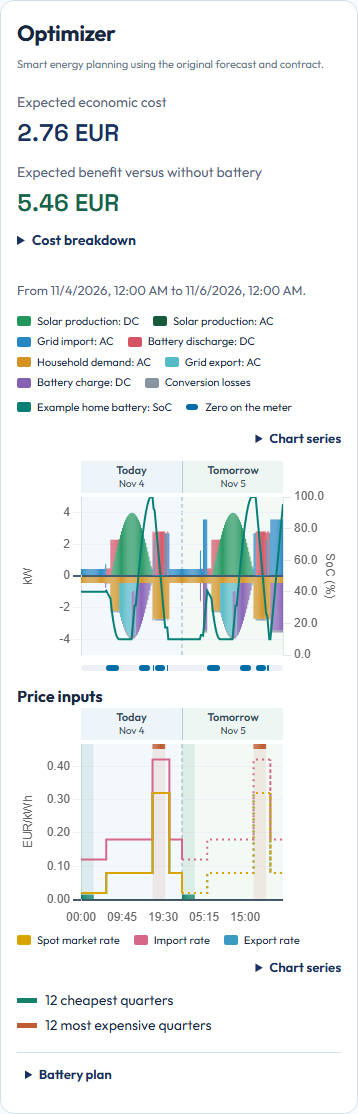
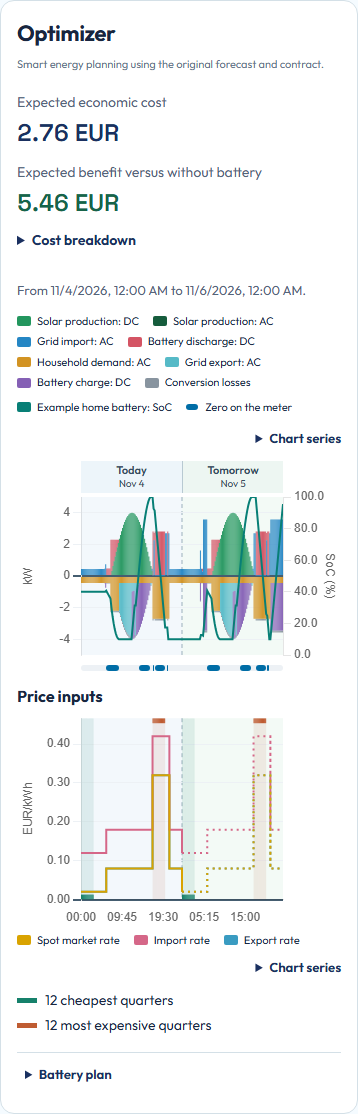
Refine linked Planning chart tooltips and day headings

diff --git a/src/open_energy_planner/web/public/overview.js b/src/open_energy_planner/web/public/overview.js
@@ -215,7 +215,7 @@ function renderTooltip({chart: instance, tooltip}, node, balance = false, balanc
     const groupedBalance = balance && !batteryPlan;
     node.classList.toggle("chart-tooltip-balance", groupedBalance);
     const sections = tooltipSections(items, totalItems, groupedBalance, tooltip.balanceItems);
-    if (isLinkedChart(instance.canvas.id) && linkedInterval) node.append(linkedCostText(linkedInterval));
+    if (instance.canvas.id === "price-chart" && linkedInterval) node.append(linkedCostTable(linkedInterval));
     node.append(sections);
     const notes = [...(interval ? balanceNotes(interval.raw, instance.canvas.id, when) : tooltip.afterBody)];
     if (totalItems.length) notes.push("Totals include all flows, including hidden series. Supply is positive. Use is negative.");
@@ -226,25 +226,40 @@ function renderTooltip({chart: instance, tooltip}, node, balance = false, balanc
     positionChartTooltip(node, instance.canvas, tooltip.caretX, tooltip.caretY);
 }
 /** Show plan cash flows before bonus and battery valuation. Missing evidence remains unknown. */
-function linkedCostText({gridImport, gridExport, buyRate, sellRate, currency}) {
-    const exchange = (label, energy, rate, amountLabel) => {
-        const quantity = knownQuantity(energy, number, "kWh");
+function linkedCostTable({gridImport, gridExport, buyRate, sellRate, currency}) {
+    const table = document.createElement("table");
+    table.className = "chart-linked-cost";
+    for (const [label, energy, rate, amountLabel] of [
+        ["Grid import", gridImport, buyRate, "Cost"],
+        ["Grid export", gridExport, sellRate, "Revenue before bonus"],
+    ]) {
+        const group = table.createTBody();
+        const heading = document.createElement("th");
+        heading.scope = "rowgroup";
+        heading.colSpan = 3;
+        heading.textContent = label;
+        group.insertRow().append(heading);
         const amount = Number.isFinite(energy) && Number.isFinite(rate) ? energy * rate : null;
-        const tariff = knownQuantity(rate, money, `${currency}/kWh`, "an unavailable rate");
-        return `${label}: ${quantity}. ${amountLabel}: ${knownQuantity(amount, money, currency)} at ${tariff}.`;
-    };
-    const text = document.createElement("p");
-    text.className = "chart-linked-cost";
-    text.textContent = [
-        exchange("Grid import", gridImport, buyRate, "Cost"),
-        exchange("Grid export", gridExport, sellRate, "Revenue before bonus")
-    ].join(" ");
-    return text;
+        appendCostRow(group, "Energy", energy, number, "kWh");
+        appendCostRow(group, "Rate", rate, money, `${currency}/kWh`);
+        appendCostRow(group, amountLabel, amount, money, currency);
+    }
+    return table;
 }
 
-/** Format finite quantities while preserving the distinction between missing and zero. */
-function knownQuantity(value, format, unit, unavailable = "Unavailable") {
-    return Number.isFinite(value) ? `${format(value)} ${unit}` : unavailable;
+/** Use the same numeric and unit columns as the energy table. */
+function appendCostRow(group, name, amount, format, symbol) {
+    const row = group.insertRow();
+    const label = document.createElement("th");
+    label.scope = "row";
+    label.textContent = name;
+    row.append(label);
+    const value = row.insertCell(), unit = row.insertCell();
+    value.className = "chart-tooltip-value";
+    unit.className = "chart-tooltip-unit";
+    const known = Number.isFinite(amount);
+    value.textContent = known ? format(amount) : "Unavailable";
+    unit.textContent = known ? symbol : "";
 }
 
 /** Redraw one timestamp across both plots without changing their scales or datasets. */
@@ -267,37 +282,46 @@ function clearLinkedInspection() {
     $("linked-chart-reading").textContent = "";
 }
 
-/** Use the plan's real interval boundaries, including partial opening quarters. */
-function linkedChartInteraction(canvas, tooltip, hideTooltip, signal) {
-    const intervalAt = (chart, pixel) => {
-        const time = chart.scales.x.getValueForPixel(pixel);
-        return inspectSteps.find(interval => interval.start <= time && time < interval.end) ?? null;
-    };
-    const midpoint = interval => (interval.start + interval.end) / 2;
-    const inspectInterval = (chart, interval, y) => {
-        selectLinkedInterval(interval);
-        hideTooltip();
-        if (!interval) return;
-        const peerTooltip = $(`${LINKED_CHART_IDS.find(id => id !== canvas.id)}-tooltip`);
-        if (peerTooltip && !peerTooltip.classList.contains("chart-tooltip-day")) peerTooltip.hidden = true;
+/** Render the selected quarter for the chart that received the input. */
+function renderLinkedTooltip(chart, tooltip, interval, y) {
+    const time = (interval.start + interval.end) / 2;
+    const x = chart.scales.x.getPixelForValue(time);
+    const caption = `From ${when(interval.start)} to ${when(interval.end)}`;
+    if (chart.canvas.id === "plan-chart") {
+        renderTooltip({chart, tooltip: {opacity: 1, dataPoints: [], title: [caption], afterBody: [], caretX: x, caretY: y}}, tooltip, true, time);
+    } else {
         const title = document.createElement("p");
         title.className = "chart-tooltip-title";
-        title.textContent = `From ${when(interval.start)} to ${when(interval.end)}`;
-        const cost = linkedCostText(interval);
-        const rankings = planRankNotes(midpoint(interval));
-        tooltip.classList.remove("chart-tooltip-balance", "chart-tooltip-day");
-        tooltip.classList.add("chart-tooltip-linked");
-        tooltip.style.maxHeight = "";
-        tooltip.replaceChildren(title, cost);
-        for (const ranking of rankings) {
+        title.textContent = caption;
+        tooltip.replaceChildren(title, linkedCostTable(interval));
+        for (const ranking of planRankNotes(time)) {
             const note = document.createElement("p");
             note.className = "chart-tooltip-explanation";
             note.textContent = ranking;
             tooltip.append(note);
         }
         tooltip.hidden = false;
-        positionChartTooltip(tooltip, canvas, chart.scales.x.getPixelForValue(midpoint(interval)), y);
-        $("linked-chart-reading").textContent = [`${title.textContent}.`, cost.textContent, ...rankings].join(" ");
+        positionChartTooltip(tooltip, chart.canvas, x, y);
+    }
+    tooltip.classList.add("chart-tooltip-linked");
+}
+
+/** Use the plan's real interval boundaries, including partial opening quarters. */
+function linkedChartInteraction(canvas, tooltip, hideTooltip, signal) {
+    const intervalAt = (chart, pixel) => {
+        const time = chart.scales.x.getValueForPixel(pixel);
+        return inspectSteps.find(interval => interval.start <= time && time < interval.end) ?? null;
+    };
+    const inspectInterval = (chart, interval, y) => {
+        selectLinkedInterval(interval);
+        hideTooltip();
+        if (!interval) return;
+        const peerTooltip = $(`${LINKED_CHART_IDS.find(id => id !== canvas.id)}-tooltip`);
+        if (peerTooltip && !peerTooltip.classList.contains("chart-tooltip-day")) peerTooltip.hidden = true;
+        tooltip.classList.remove("chart-tooltip-balance", "chart-tooltip-day");
+        tooltip.style.maxHeight = "";
+        renderLinkedTooltip(chart, tooltip, interval, y);
+        $("linked-chart-reading").textContent = tooltip.innerText.replace(/\s+/g, " ").trim();
         $("inspect-time").value = inspectSteps.indexOf(interval);
         inspect();
     };
@@ -849,7 +873,7 @@ function chart(id, series, {utcDays = false, calendarDates = false, unit = "", m
                         ? null : instance.scales.x.getValueForPixel(event.x);
                 }
             },
-            plugins: {calendarDays: {utc: utcDays, onHeading: planningLegend ? (instance, heading, day) => { hideTooltip(); planningDayHeading(instance, series, tooltip, daySummary, heading, day); } : null}, valueAxisHeadroom: {group: null}, legend: {display: false}, tooltip: {enabled: false, external: (context) => {
+            plugins: {calendarDays: {utc: utcDays, showHeadings: showPlanningDayHeadings(id), onHeading: planningLegend ? (instance, heading, day) => { hideTooltip(); planningDayHeading(instance, series, tooltip, daySummary, heading, day); } : null}, valueAxisHeadroom: {group: null}, legend: {display: false}, tooltip: {enabled: false, external: (context) => {
                 if (!context.tooltip.opacity && tooltip.classList.contains("chart-tooltip-linked")) return;
                 hideTooltip();
                 const time = balanceTime; balanceTime = null;
@@ -877,6 +901,11 @@ function chart(id, series, {utcDays = false, calendarDates = false, unit = "", m
     renderLegend(result);
     if (!deferRange) applyRange();
     if (id === "price-chart") loadDailyPrices(result);
+}
+
+/** Keep day labels in the stand-alone price preview and above the Optimizer. */
+function showPlanningDayHeadings(id) {
+    return id !== "price-chart" || !priceInputPlanId;
 }
 /**
  * Set shared axes without changing frozen data: the latest plan starts at the

diff --git a/src/open_energy_planner/web/public/chart_days.js b/src/open_energy_planner/web/public/chart_days.js
@@ -47,19 +47,21 @@ export const calendarDays = {
     id: "calendarDays",
     descriptors: {_scriptable: false},
     /** Own the heading container before the canvas and snapshot the original layout padding. */
-    beforeInit(chart) {
+    beforeInit(chart, _arguments, options) {
         const headings = document.createElement("div");
         headings.className = "chart-day-headings";
         headings.setAttribute("role", "list");
         headings.setAttribute("aria-label", "Chart calendar days");
+        headings.hidden = options.showHeadings === false;
         chart.canvas.before(headings);
         const padding = chart.options.layout.padding;
         bands.set(chart, {headings, padding: typeof padding === "number" ? {top: padding, right: padding, bottom: padding, left: padding} : {...padding}});
     },
     /** Replace padding from the snapshot on each layout pass, reserving headings only for real timestamps. */
     beforeLayout(chart) {
-        const {padding} = bands.get(chart);
-        chart.options.layout.padding = {...padding, top: (padding.top || 0) + (hasTimestamps(chart) ? HEADER_HEIGHT : 0)};
+        const {headings, padding} = bands.get(chart);
+        const headerHeight = !headings.hidden && hasTimestamps(chart) ? HEADER_HEIGHT : 0;
+        chart.options.layout.padding = {...padding, top: (padding.top || 0) + headerHeight};
     },
     /** Rebuild headings and paint day bands and boundaries using UTC dates when options.utc is true, otherwise installation dates. */
     beforeDraw(chart, _arguments, options) {
@@ -71,7 +73,7 @@ export const calendarDays = {
         const today = dateAt(Date.now()), tomorrow = nextDate(today);
         // Canvas hover redraws must preserve the heading owning keyboard focus or a tooltip.
         const layout = JSON.stringify([x.min, x.max, chartArea.left, chartArea.right, chartArea.top, today, dateAt(x.min), dayEnd(Infinity, dateAt(x.min), options.utc), options.utc]);
-        const rebuild = state.layout !== layout;
+        const rebuild = headingsNeedUpdate(state, layout);
         if (rebuild) { headings.replaceChildren(); state.layout = layout; }
         headings.style.top = `${chartArea.top - HEADER_HEIGHT}px`;
         ctx.save();
@@ -111,3 +113,8 @@ export const calendarDays = {
     /** Remove the owned heading container and release the chart's stored layout state. */
     afterDestroy(chart) { bands.get(chart)?.headings.remove(); bands.delete(chart); }
 };
+
+/** Keep background bands independent of their optional labelled overlay. */
+function headingsNeedUpdate(state, layout) {
+    return !state.headings.hidden && state.layout !== layout;
+}

diff --git a/src/open_energy_planner/web/public/workspace.css b/src/open_energy_planner/web/public/workspace.css
@@ -23,7 +23,6 @@
 .linked-price > .chart-legend { padding-top:4px; }
 .linked-price .price-daily-key { gap:4px 16px; }
 .workspace .linked-price .chart-wrap { height:220px; }
-.chart-linked-cost { margin:4px 0 8px; line-height:1.5; }
 .workspace { background:#f4f6f9; color:#1d2b42; }
 .sidebar { position:fixed; inset:0 auto 0 0; width:224px; padding:32px 20px; background:#102b33; color:#b8cbd0; display:flex; flex-direction:column; z-index:10; }
 .brand { display:flex; gap:12px; align-items:center; color:white; text-decoration:none; font-size:16px; line-height:1.25; }
@@ -182,6 +181,10 @@
 .chart-tooltip-day { pointer-events:auto; max-height:calc(100dvh - 24px); overflow-y:auto; }
 .chart-tooltip table { width:100%; margin:0; border-collapse:collapse; }
 .chart-tooltip td { padding:3px 4px; border:0; color:inherit; font-size:12px; vertical-align:top; }
+.chart-tooltip .chart-linked-cost { margin:0 0 8px; }
+.chart-tooltip .chart-linked-cost th { position:static; padding:3px 4px; border:0; background:none; color:inherit; text-align:start; font-size:inherit; font-weight:400; }
+.chart-linked-cost th[scope="rowgroup"] { font-weight:700; }
+.chart-linked-cost tbody + tbody th[scope="rowgroup"] { padding-top:7px; border-top:1px solid #ffffff40; }
 .chart-tooltip .series-swatch { margin-right:7px; }
 .chart-tooltip .chart-tooltip-value { text-align:right; font-variant-numeric:tabular-nums; white-space:nowrap; }
 .chart-tooltip .chart-tooltip-unit { white-space:nowrap; }

diff --git a/tests/frontend/browser/test_daily_prices.py b/tests/frontend/browser/test_daily_prices.py
@@ -80,6 +80,9 @@ def test_price_daily_marks_and_accessible_description_follow_backend(app_page):
     expect(page.locator("#price-daily-detail")).to_have_count(0)
     description = page.get_by_role("img", name="Price inputs", exact=True)
     expect(description).to_have_accessible_description(re.compile("12 most expensive quarters"))
+    expect(
+        description.locator("..").get_by_role("list", name="Chart calendar days")
+    ).to_be_visible()
     page.get_by_role("button", name="Full period", exact=True).click()
     directory = Path("results/ci")
     directory.mkdir(parents=True, exist_ok=True)
@@ -245,9 +248,19 @@ def test_linked_price_readout_uses_original_cash_rates_and_keeps_missing_values_
     price = page.locator("#price-chart")
     price.press("Home")
     reading = page.locator("#linked-chart-reading")
-    expect(reading).to_contain_text("Grid import: 1.25 kWh. Cost: 0.38 EUR at 0.30 EUR/kWh.")
+    popup = page.locator("#price-chart-tooltip")
+    expect(popup.locator(".chart-linked-cost th[scope=rowgroup]")).to_have_text(
+        ["Grid import", "Grid export"]
+    )
+    imports = popup.locator(".chart-linked-cost tbody").first
+    expect(imports.locator("th[scope=row]")).to_have_text(["Energy", "Rate", "Cost"])
+    expect(imports.locator(".chart-tooltip-value")).to_have_text(["1.25", "0.30", "0.38"])
+    expect(imports.locator(".chart-tooltip-unit")).to_have_text(["kWh", "EUR/kWh", "EUR"])
+    expect(reading).to_contain_text("Grid import Energy 1.25 kWh Rate 0.30 EUR/kWh Cost 0.38 EUR")
     price.press("End")
-    expect(reading).to_contain_text("Grid import: Unavailable. Cost: Unavailable at 0.30 EUR/kWh.")
+    expect(imports.locator(".chart-tooltip-value")).to_have_text(
+        ["Unavailable", "0.30", "Unavailable"]
+    )
 
 
 @pytest.mark.parametrize("app_site", ["documentation"], indirect=True)
@@ -282,3 +295,8 @@ def test_hovering_the_peer_chart_dismisses_a_different_pinned_interval(app_page)
     current_quarter = page.locator("#plan-chart-tooltip .chart-tooltip-title")
     expect(current_quarter).to_be_visible()
     assert current_quarter.inner_text() != original_quarter
+    expect(page.locator("#plan-chart-tooltip .chart-linked-cost")).to_have_count(0)
+    optimizer.press("Home")
+    expect(page.locator("#plan-chart-tooltip")).to_contain_text("Total production")
+    expect(reading).to_contain_text("Total production")
+    expect(reading).not_to_contain_text("Revenue before bonus")

diff --git a/tests/frontend/browser/test_chart_legend_layout.py b/tests/frontend/browser/test_chart_legend_layout.py
@@ -126,6 +126,8 @@ def _assert_linked_plot_layout_and_inspection(page, optimizer):
     )
     assert plan.evaluate("canvas => Chart.getChart(canvas).scales.x.options.display") is False
     assert price.evaluate("canvas => Chart.getChart(canvas).scales.x.options.display") is True
+    expect(plan.locator("..").get_by_role("list", name="Chart calendar days")).to_be_visible()
+    expect(price.locator("..").get_by_role("list", name="Chart calendar days")).to_have_count(0)
     scales = page.evaluate("""() => ["plan-chart", "price-chart"].map(id => {
         const chart = Chart.getChart(id);
         return [chart.scales.x.min, chart.scales.x.max, chart.chartArea.left, chart.chartArea.right];
@@ -156,7 +158,10 @@ def _assert_linked_plot_layout_and_inspection(page, optimizer):
     page.keyboard.press("ArrowRight")
     assert all(before != after for before, after in zip(idle, page.evaluate(images), strict=True))
     expect(page.locator("#linked-chart-reading")).to_contain_text("Revenue before bonus")
-    expect(page.locator("#price-chart-tooltip")).to_be_visible()
+    price_tooltip = page.locator("#price-chart-tooltip")
+    expect(price_tooltip).to_be_visible()
+    expect(price_tooltip.locator(".chart-linked-cost tbody")).to_have_count(2)
+    page.screenshot(path=str(directory / f"price-tooltip-{page.viewport_size['width']}.png"))
     page.keyboard.press("Escape")
     expect(page.locator("#price-chart-tooltip")).to_be_hidden()
     if page.viewport_size["width"] < 500:

diff --git a/tests/frontend/browser/test_energy_balance.py b/tests/frontend/browser/test_energy_balance.py
@@ -414,7 +414,8 @@ def test_rendered_balances_keep_real_widths_zero_sum_soc_and_accessible_inspecti
             "Chart.getChart(document.getElementById('plan-chart')).getDatasetMeta(0).data[0].getCenterPoint()"
         )
         canvas.tap(position=point)
-        expect(popup).to_contain_text("Revenue before bonus")
+        expect(popup).to_contain_text("Total production")
+        expect(popup.locator(".chart-linked-cost")).to_have_count(0)
         expect(page.locator("#plan-evidence-panel")).to_have_js_property("open", False)
         expect(page.locator("#inspect-time")).to_have_value("0")
     if not page.get_by_label("Inspect planning time", exact=True).is_visible():

diff --git a/docs/users/read-your-plan.md b/docs/users/read-your-plan.md
@@ -123,7 +123,7 @@ Interval pop-ups show positive **Total production** and negative **Total consump
 
 Bars show mean kW for their covered quarter. Battery lines use the separate SoC percentage axis. Tap or hover for the exact interval. When the tooltip cannot fit to the right of the pointer, it opens to the left if there is space there. A partial quarter has its actual covered duration rather than a fabricated full-quarter energy amount.
 
-Use **Next 6 hours**, **Next 24 hours** or **Full period**. The Optimizer and **Price inputs** charts share the time axis below **Price inputs**. Hover or tap either chart to highlight the same interval in both. The interval shows grid energy, the original import and export rates, import cost and export revenue before bonus. Moving the pointer to a different quarter dismisses a pinned readout for the previous quarter. With a chart focused, use the arrow keys to move by interval and Escape to dismiss the selection. Day labels follow the installation timezone.
+Use **Next 6 hours**, **Next 24 hours** or **Full period**. Day labels sit above the Optimizer and the shared time axis below **Price inputs**. The day boundaries line up across both charts in the installation timezone. Hover or tap either chart to highlight the same interval in both. The Optimizer tooltip shows the energy balance. In **Price inputs**, the tooltip groups grid import and grid export with their energy, original rates, import cost and export revenue before bonus. Moving the pointer to a different quarter dismisses a pinned readout for the previous quarter. With a chart focused, use the arrow keys to move by interval and Escape to dismiss the selection.
 
 The legend names each visible series as it appears in the chart, including conversion losses, battery state of charge and separate expected and scheduled device bars. Open **Chart series** on any Planning graph to change which series are visible. Hidden or missing data does not represent a measured zero.
 
